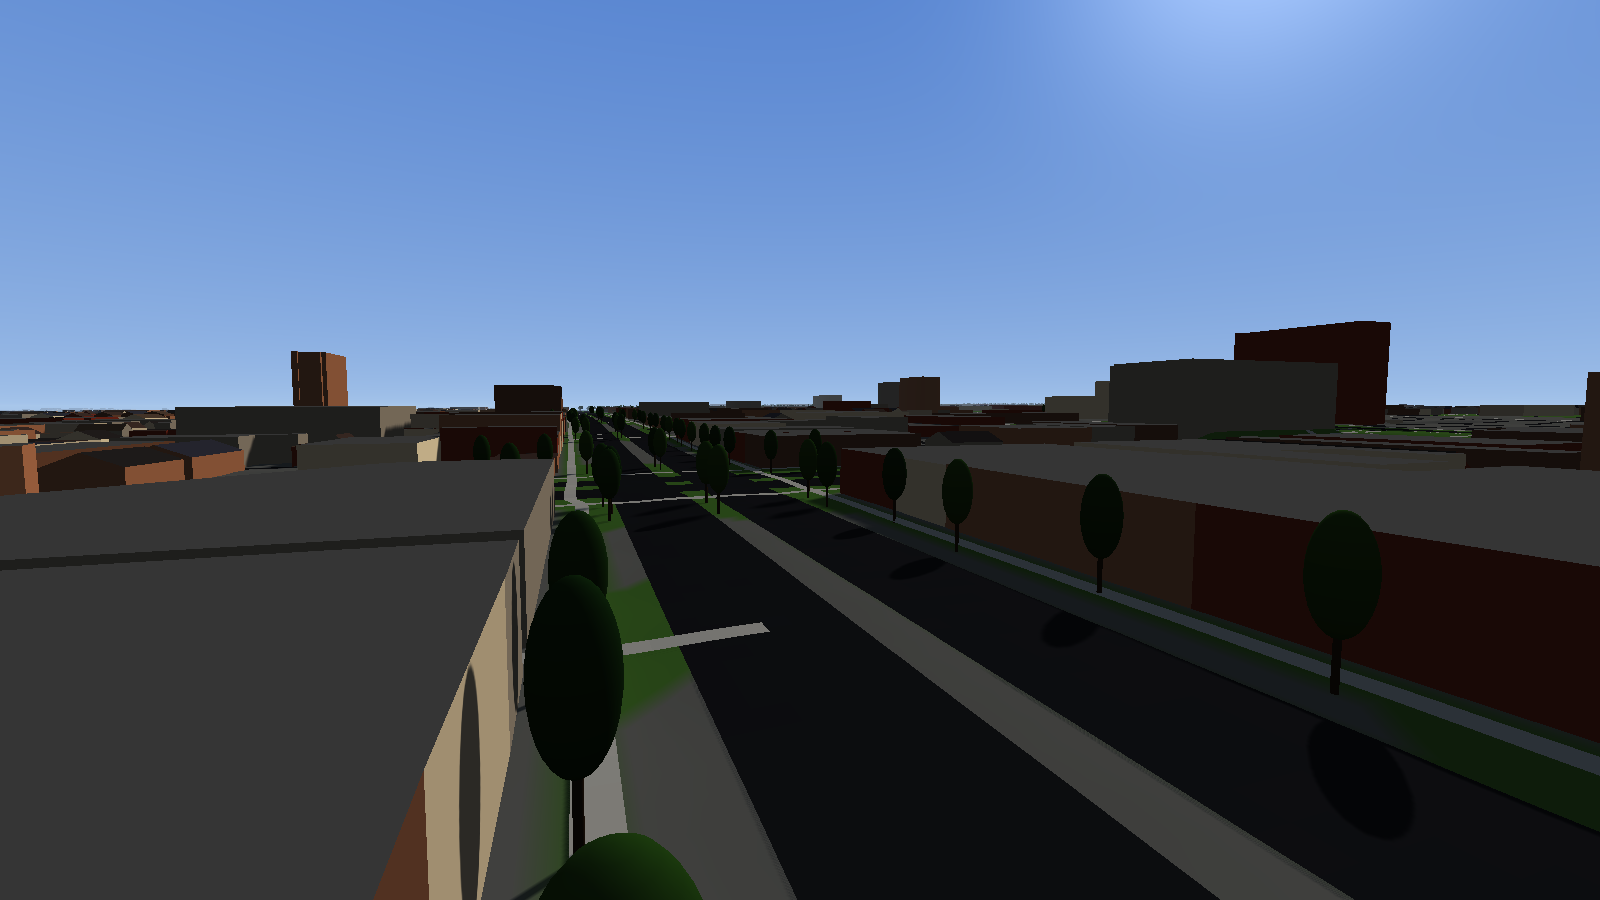
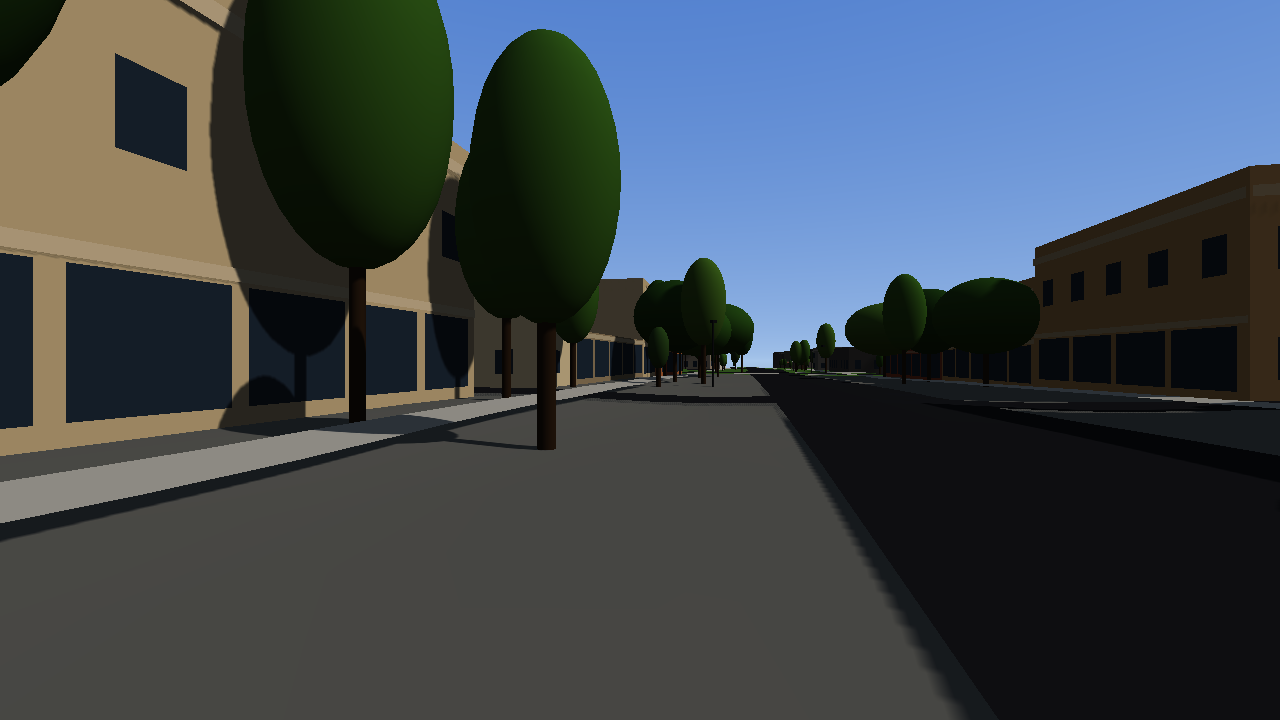
docs: measured buildings, with before and after views
The README shows the same three views before and after, explains how heights,
roofs, walls, colours and trees are made, gives the accuracy numbers and what
they do and do not show, and lists the new limits. NOTICE credits the lidar,
the NAIP imagery the roof colours were sampled from, and the overrides' sources.

Claude-Session: https://claude.ai/code/session_01LYNeukf1ER1qxeTcrBybTu

diff --git a/README.md b/README.md
@@ -1,13 +1,52 @@
 # Old Town Walk
 
-Walk or fly through 2 km by 2 km of Old Town Fort Collins, Colorado, in 3D. It is built only from open map and
-elevation data and rendered with [Strata](https://github.com/Preponderous-Software/strata).
+Walk or fly through 2 km by 2 km of Old Town Fort Collins, Colorado, in 3D. It is built only from open data (the
+map, elevation, airborne lidar and roof colours sampled from aerial photographs) and rendered with
+[Strata](https://github.com/Preponderous-Software/strata).
 
-![Old Town Fort Collins from 95 m: the street grid and blocks of buildings at evening](docs/images/old-town.png)
+![Old Town Fort Collins from 95 m: downtown at its measured heights, with light roofs, windows and street trees](docs/images/old-town.png)
 
-![A tree-lined street in Old Town seen from a low flight](docs/images/street.png)
+![A street in Old Town at eye level: shop windows, rows of windows above, and trees along the pavement](docs/images/street.png)
 
-*Rendered by the real viewer. Map data © OpenStreetMap contributors (ODbL); elevation courtesy of the USGS.*
+*Rendered by the real viewer. Map data © OpenStreetMap contributors (ODbL); elevation and lidar courtesy of the USGS;
+roof colours sampled from USDA NAIP imagery.*
+
+## Measured buildings
+
+Every building's height and roof come from the USGS's airborne lidar survey of Fort Collins, and its roof colour from
+aerial photographs. Before, all but 4% of buildings were one of two default boxes.
+
+| Before | Now |
+|---|---|
+| ![Downtown from the air before: flat grey boxes of two heights](docs/images/buildings-air-before.jpg) | ![Downtown from the air now: buildings at their measured heights, with parapets, cornices, windows and light roofs](docs/images/buildings-air-now.jpg) |
+| ![A street in Old Town before: blank walls](docs/images/buildings-street-before.jpg) | ![The same street now: shop windows on the ground floor, rows of windows above, and the street's trees](docs/images/buildings-street-now.jpg) |
+| ![A street of houses before: a gable on every house, no trees](docs/images/buildings-houses-before.jpg) | ![The same houses now: gabled and hipped roofs as surveyed, and the trees the survey found](docs/images/buildings-houses-now.jpg) |
+
+- **Heights.** The lidar is gridded to one metre (`data/raw/lidar-ndsm.tif`): the height of whatever stands above the
+  ground in each cell. A footprint's cells give its eave and its roof. Cells under a tree's leaves are left out, since a
+  pulse that splits on leaves gives itself away.
+- **Roofs.** The footprint is turned square to its walls and covered with rectangles, which may overlap like the wings
+  of a house. Flat, gabled and hipped roofs over those rectangles are each fitted to the lidar, with the pitch and eave
+  free, and the one that fits clearly best is kept. A flat roof with a higher block on it gets that block, and a church
+  gets its steeple. A building OSM splits into parts is drawn part by part.
+- **Walls.** Rows of windows a storey apart, a glass front at street level on shops in the commercial district, a
+  parapet and cornice on larger flat-roofed buildings, and no windows on a wall shared with the neighbour.
+- **Colours.** Roof colours are sampled from aerial photographs (`data/raw/roof-colours.csv`, one colour a roof; the
+  photographs themselves are not kept). Walls follow OSM's tags where mappers gave them, a few sourced facts in
+  `data/building-overrides.csv`, and otherwise palettes by the kind of building.
+- **Trees.** The survey also finds the trees: 23,000 of them, each at its measured height and crown width, where OSM
+  maps about 900. Trees are drawn in full near you and thinned further out.
+
+`uv run old-town-walk accuracy` compares every surveyed building as drawn with the lidar, cell by cell:
+
+| | Median error | Within 1 m |
+|---|---|---|
+| Before: a default by kind | 1.98 m | 15% |
+| Now: fitted to the lidar | 0.30 m | 98.7% |
+
+The model is fitted to the same lidar it is measured against, so the second row says how well the shapes can follow
+the survey, not how well they would predict a building it did not see. The survey dates from 2013: about 600 buildings
+put up since then, or under trees it saw instead, fall back on their OSM tags and kind.
 
 ## Then and now
 
@@ -57,8 +96,8 @@ uv run python tools/build_site.py build-web build/tiles web-site
 python3 -m http.server 8000 --directory web-site
 ```
 
-Tiles are downloaded as they are needed, gzipped, and the page unpacks them, so the map costs about 3 MB to start and
-11 MB if you walk all of it. Your settings, and a note that you have seen the controls, are kept in that browser only,
+Tiles are downloaded as they are needed, gzipped, and the page unpacks them, so the map costs about 4 MB to start and
+13 MB if you walk all of it. Your settings, and a note that you have seen the controls, are kept in that browser only,
 and nothing is reported. A link to a spot is made only when you ask for one, and nothing about it is stored or reported.
 `web/smoke/smoke.cjs` plays it in headless Chromium, on a desktop and a phone profile, with real input.
 
@@ -112,7 +151,9 @@ cmake -S . -B build/app && cmake --build build/app -j4
 
 To refresh the data, `uv run old-town-walk fetch` downloads it into `build/fetched`, which is never committed, because a
 full OpenStreetMap download carries contributor names and business contact details. `uv run old-town-walk sanitize` then
-reduces it to the geometry and the few tags the build reads.
+reduces it to the geometry and the few tags the build reads. `uv run --group lidar old-town-walk lidar` downloads the
+survey's point tiles (about 260 MB, into `build/fetched/lidar`) and grids them, and `uv run old-town-walk roofs`
+samples the roof colours from aerial photographs it downloads into `build/fetched`.
 
 Headless, with `LIBGL_ALWAYS_SOFTWARE=1 GALLIUM_DRIVER=llvmpipe` where there is no GPU:
 
@@ -139,11 +180,14 @@ The layout is documented at the top of `old_town_walk/tiles.py`. `manifest.txt` 
 ## Limits
 
 - Tiles load on the main thread, one a frame, and there is no level of detail.
-- Only four-cornered footprints get a gabled roof, and holes in buildings are ignored.
-- Building heights are mostly defaults, because few buildings are tagged with one.
+- The lidar is from 2013. Buildings put up since then get their height from OSM tags or a default by kind.
+- Roofs are flat, gabled or hipped over rectangles; mansards, domes and curved roofs are not modelled, and footprints
+  that are not square to their walls get a simple hip.
+- Wall colours are mostly palettes by kind of building: neither the map nor the survey can see a wall.
 - Water is only a colour, you can walk on it, and bridges are not modelled.
 
 ## License
 
 The code is MIT (see `LICENSE`). The data is not: see `NOTICE.md`. Map data © OpenStreetMap contributors, under the
-Open Database License. Elevation courtesy of the U.S. Geological Survey.
+Open Database License. Elevation and lidar courtesy of the U.S. Geological Survey; roof colours sampled from USDA NAIP
+imagery.

diff --git a/NOTICE.md b/NOTICE.md
@@ -12,6 +12,13 @@ The code is under the MIT license (see LICENSE). The data it uses is not.
   public places only, its sentences are this project's own, and each cites the source it was checked against.
 - **Elevation** courtesy of the U.S. Geological Survey, 3D Elevation Program (`data/raw/dem-3dep.tif`). USGS data is in
   the public domain; attribution is requested.
+- **Lidar** courtesy of the U.S. Geological Survey, 3D Elevation Program: survey USGS_LPC_CO_SoPlatteRiver_Lot2a_2013,
+  read from the USGS open lidar bucket on AWS. `data/raw/lidar-ndsm.tif` is a one-metre grid derived from it (heights
+  above ground and a leaf share). Public domain; attribution is requested.
+- **Roof colours** in `data/raw/roof-colours.csv` are one colour a building, sampled from USDA Farm Service Agency NAIP
+  imagery through the USGS National Map. NAIP is in the public domain. The imagery itself is not kept or drawn.
+- **Building facts** in `data/building-overrides.csv` (what a wall is made of, how many storeys) are each from the
+  public source cited on their row.
 - **Rendering** by [Strata](https://github.com/Preponderous-Software/strata) (MIT), fetched at build time at the commit
   in `strata.ref`, with the third-party libraries it builds in, such as SDL3 (zlib license). The browser version also serves Strata's web kit scripts.
 - **Historic images in the README** are in the public domain in the United States and are not part of the program:
